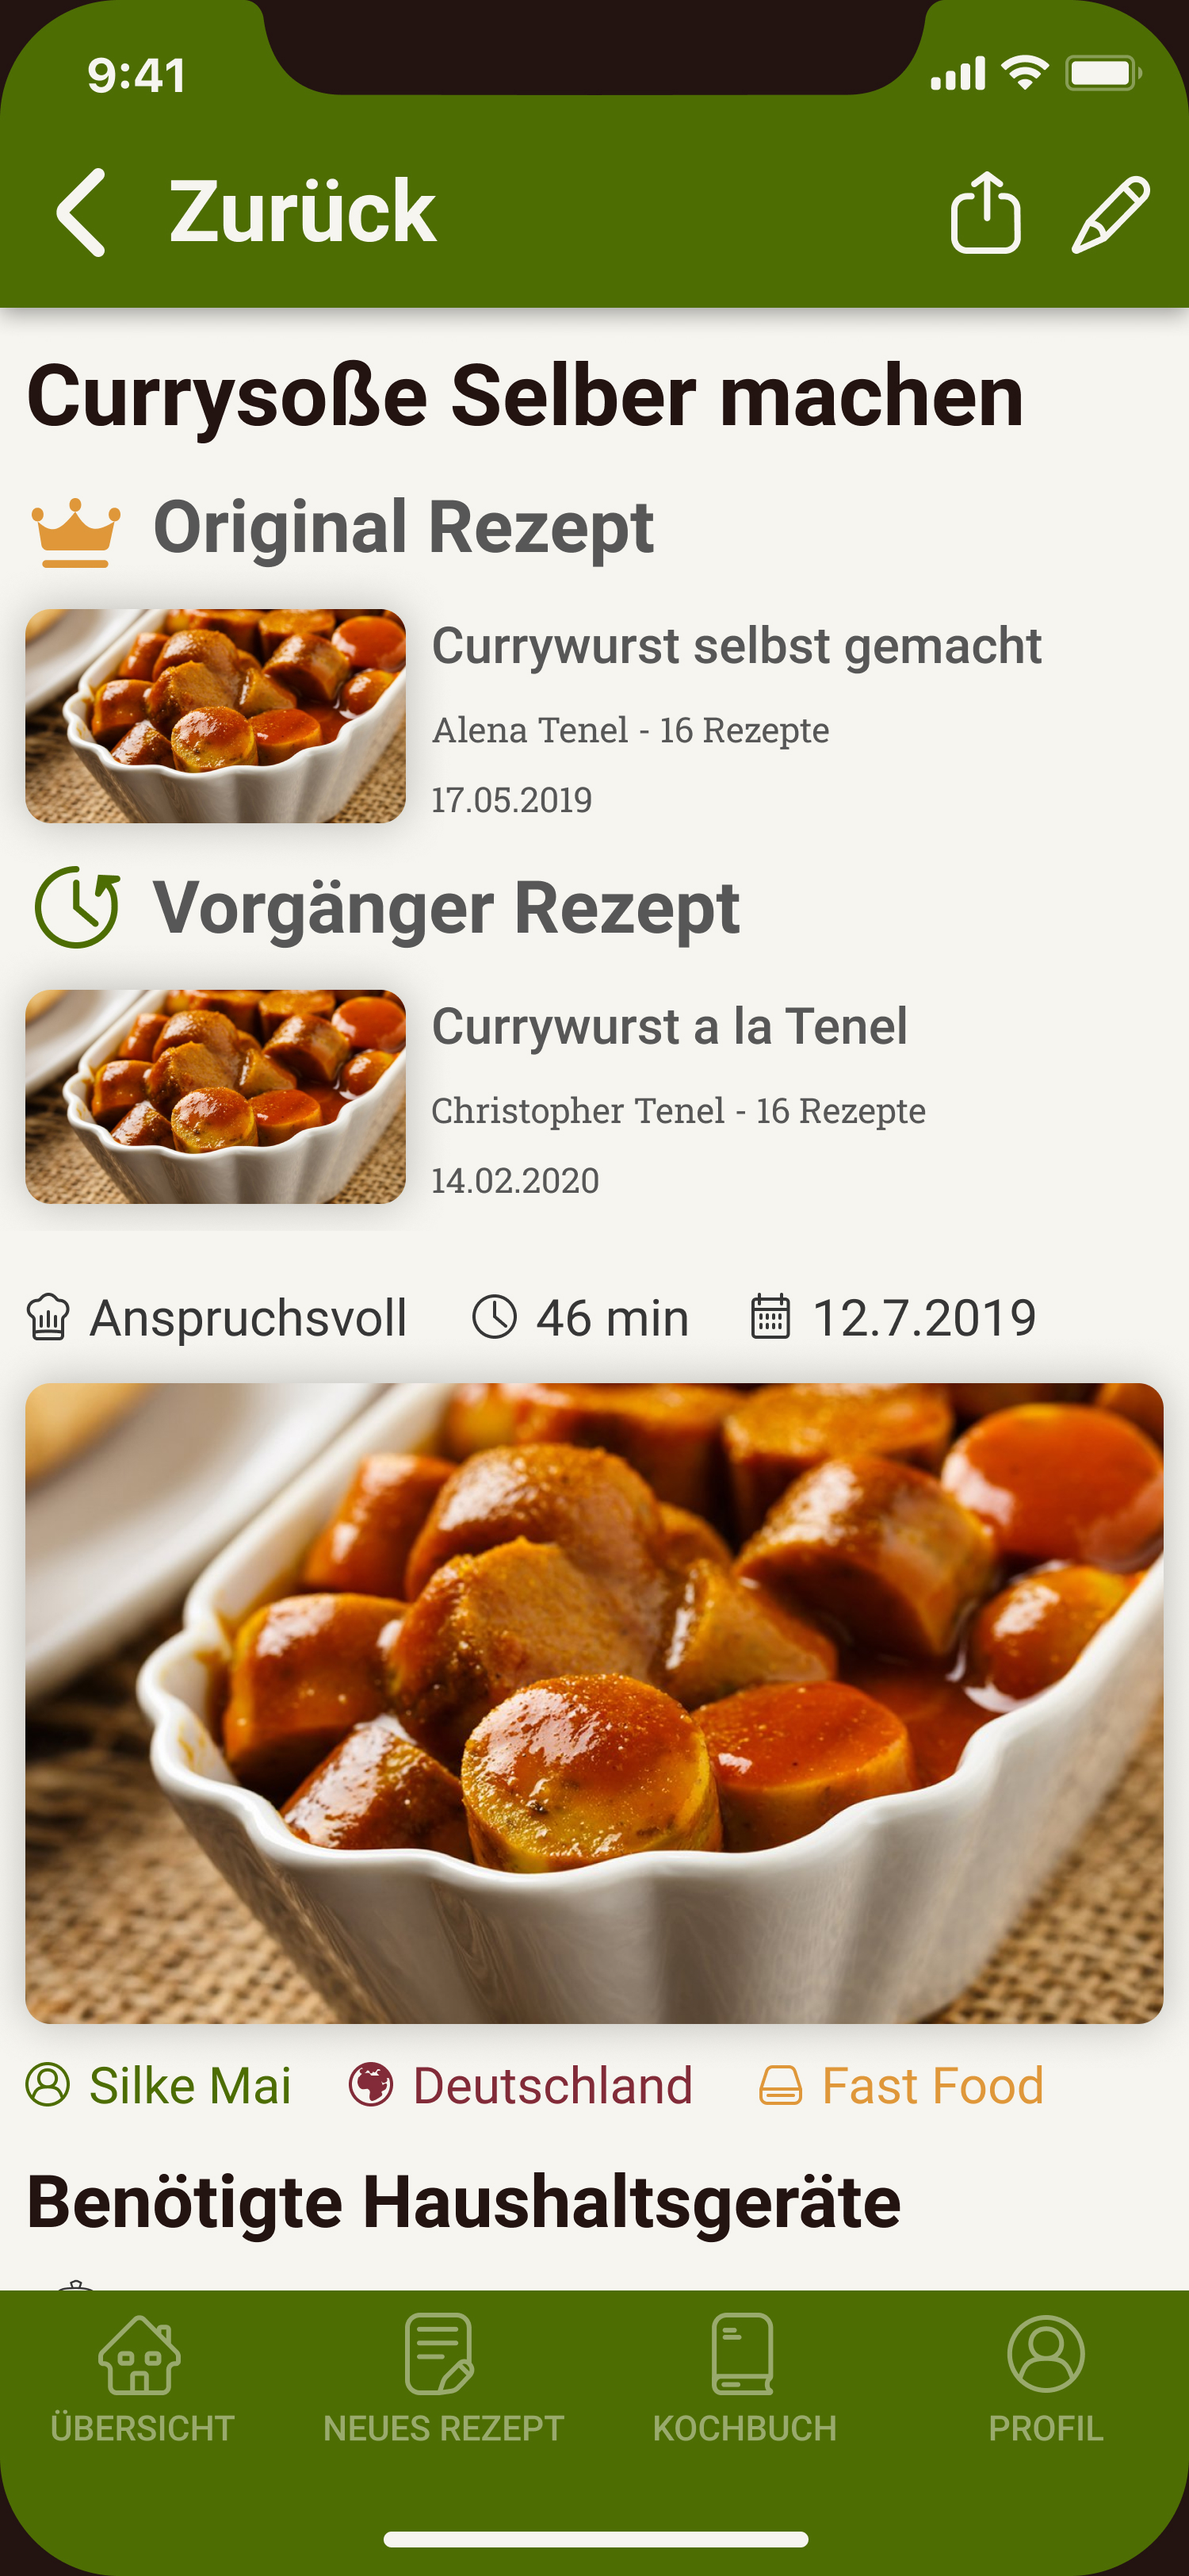
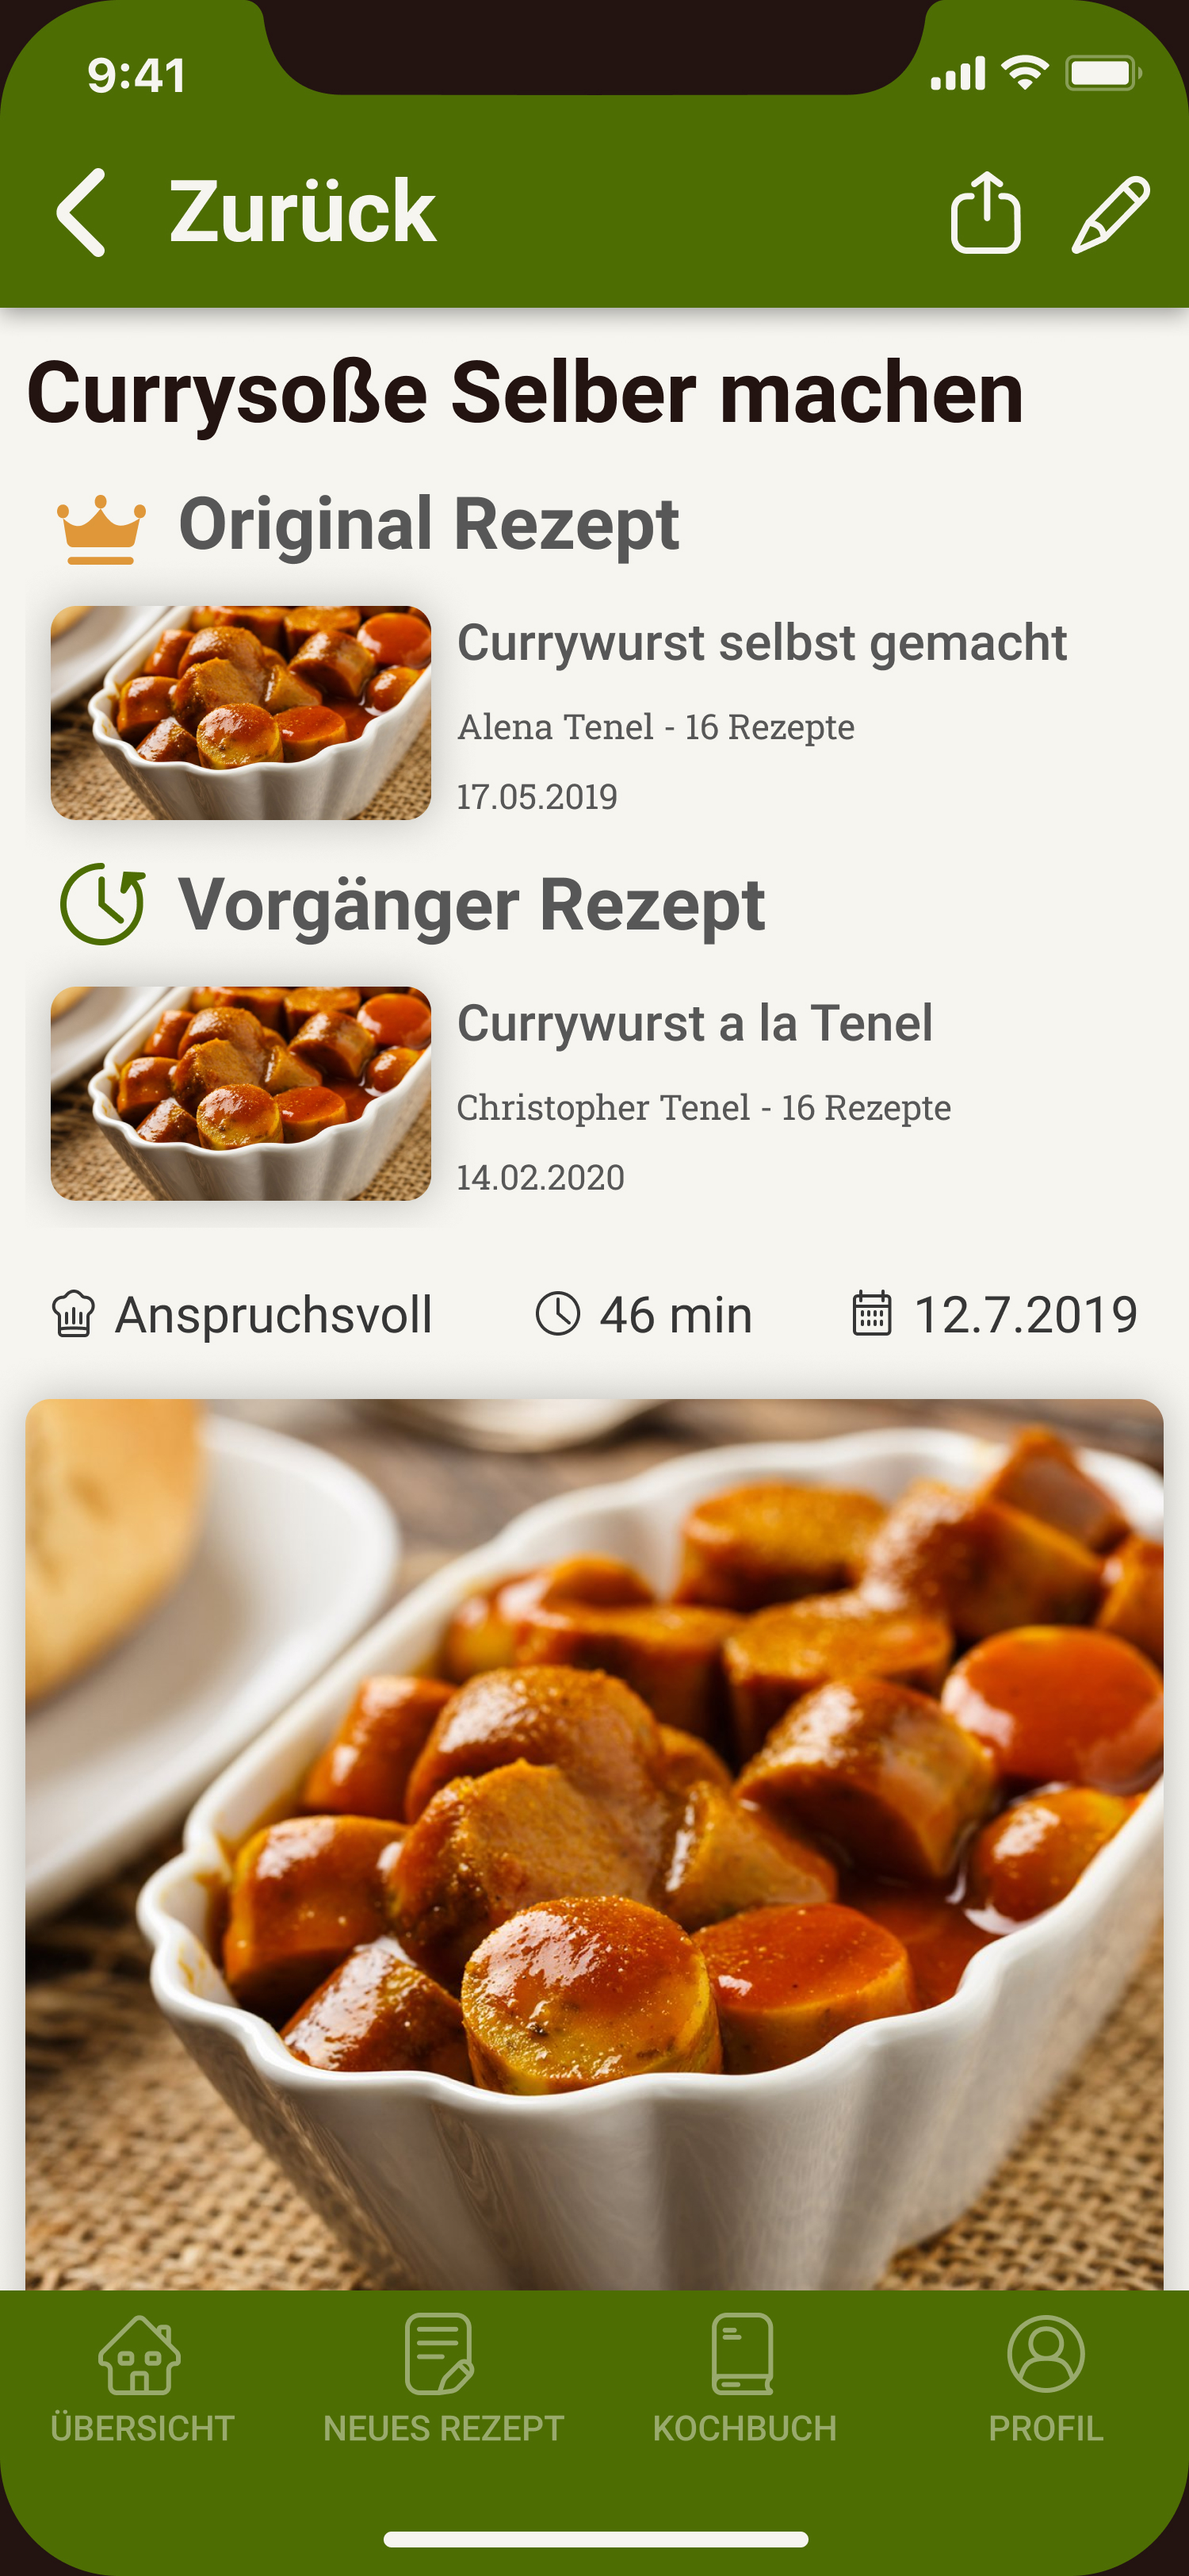
[FEATURE] Add tablet recipe views and modify mobile versions

diff --git a/Artefakte/Zeiterfassung/Arbeitsmatrix.md b/Artefakte/Zeiterfassung/Arbeitsmatrix.md
@@ -155,8 +155,11 @@
 | 22       | Interface Design                    | MockUps                                           | [FEATURE]       | Tablet Album und Kochbuch Einstellungen                          | 25.10.21        | 12.10.21            |                 | 2,50            |
 | 22       | Interface Design                    | MockUps                                           | [FEATURE]       | Tablet und Mobile Rezept bearbeiten                              | 30.10.21        | 12.10.21            |                 | 4,50            |
 |          |                                     |                                                   |                 |                                                                  |                 |                     |                 |                 |
+| 22       | Interface Design                    | MockUps                                           | [FEATURE]       | Tablet und Mobile Rezept ansicht                                 | 01.11.21        | 12.10.21            |                 | 3,50            |
+| 22       | Interface Design                    | MockUps                                           | [FEATURE]       | Tablet und Mobile Profile                                        | 01.11.21        | 12.10.21            |                 | 2,25            |
 |          |                                     |                                                   |                 |                                                                  |                 |                     |                 |                 |
-|          | Stunden insgesamt                   | 333,25                                            | Stunden Seminar | 55                                                               | Stunden Projekt | 278,25              |                 |                 |
-|          |                                     |                                                   | Budget:         | 80                                                               | Budget:         | 36,75               |                 |                 |
+|          |                                     |                                                   |                 |                                                                  |                 |                     |                 |                 |
+|          | Stunden insgesamt                   | 339                                               | Stunden Seminar | 55                                                               | Stunden Projekt | 284                 |                 |                 |
+|          |                                     |                                                   | Budget:         | 80                                                               | Budget:         | 31                  |                 |                 |
 |          | Kredits erreicht:                   | 12                                                |                 |                                                                  |                 |                     |                 |                 |
 |          | Kredits erfordert:                  | 15                                                |
